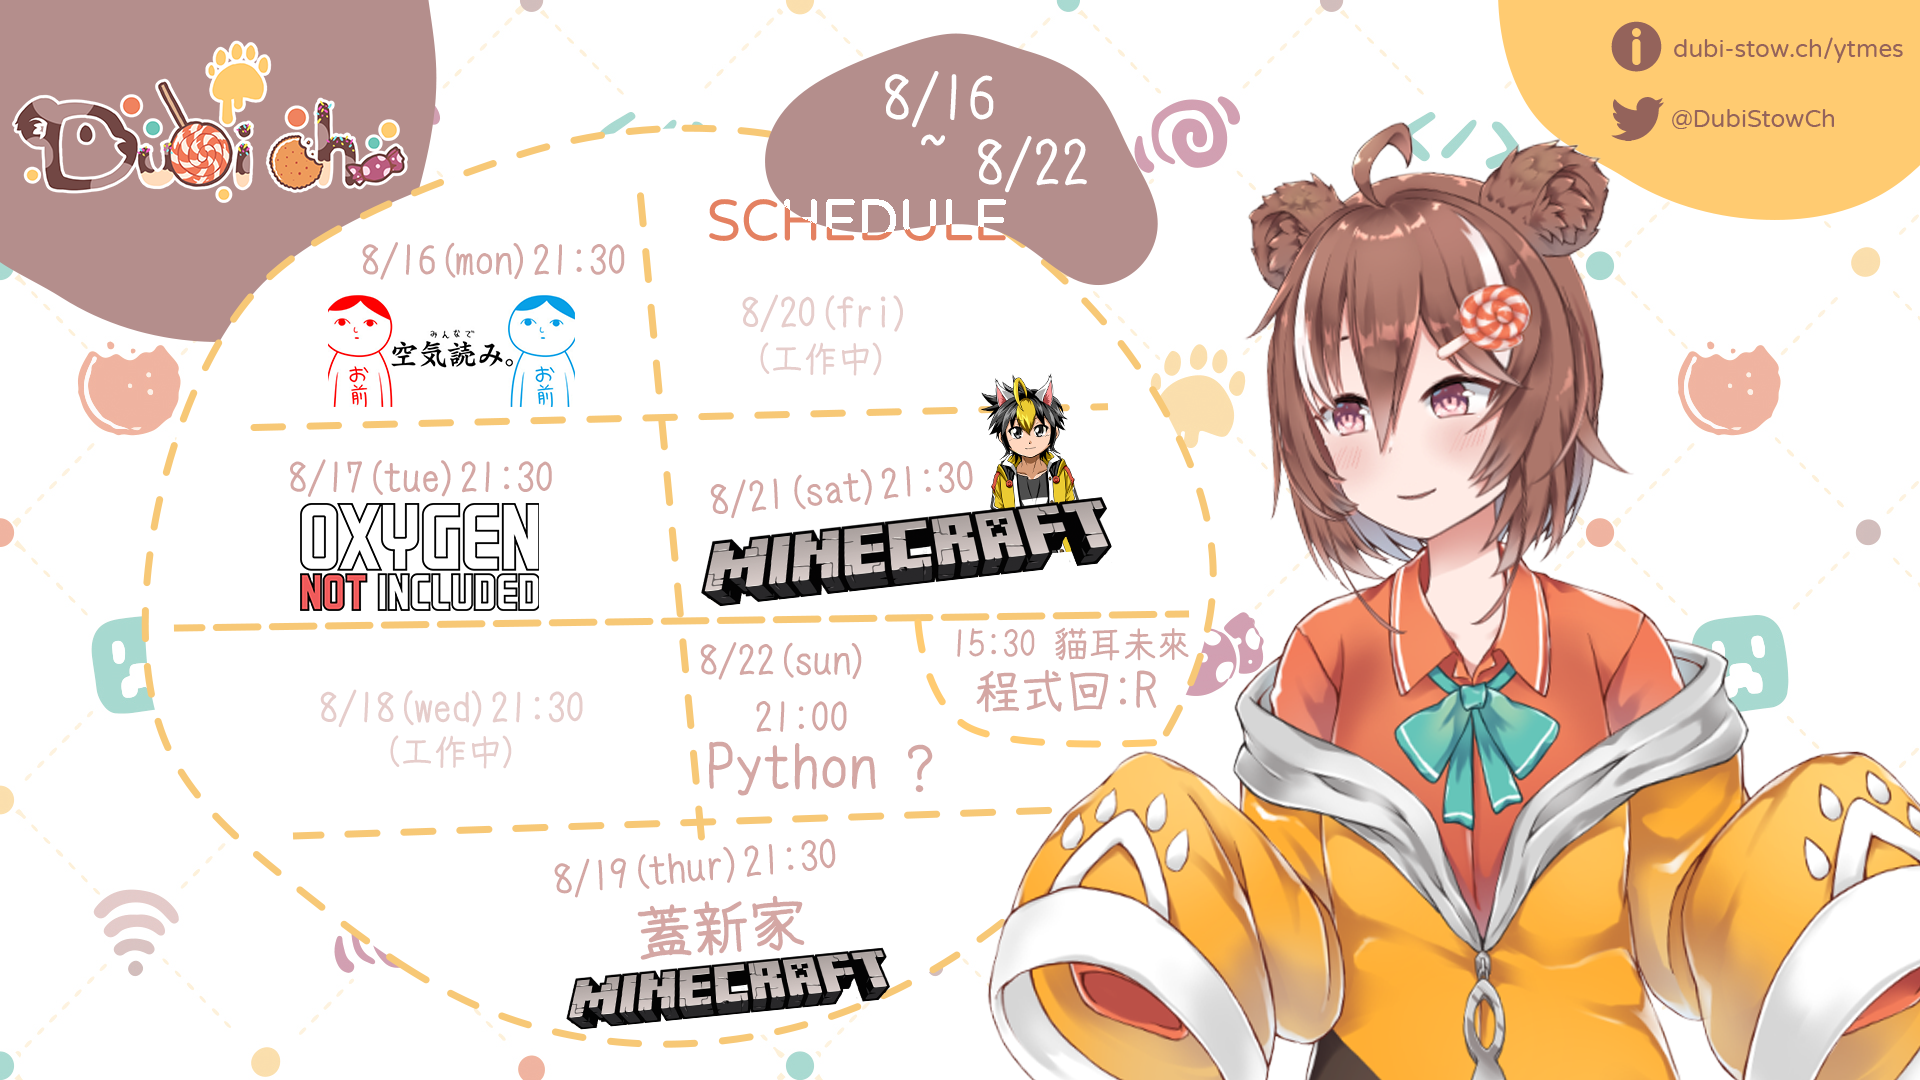
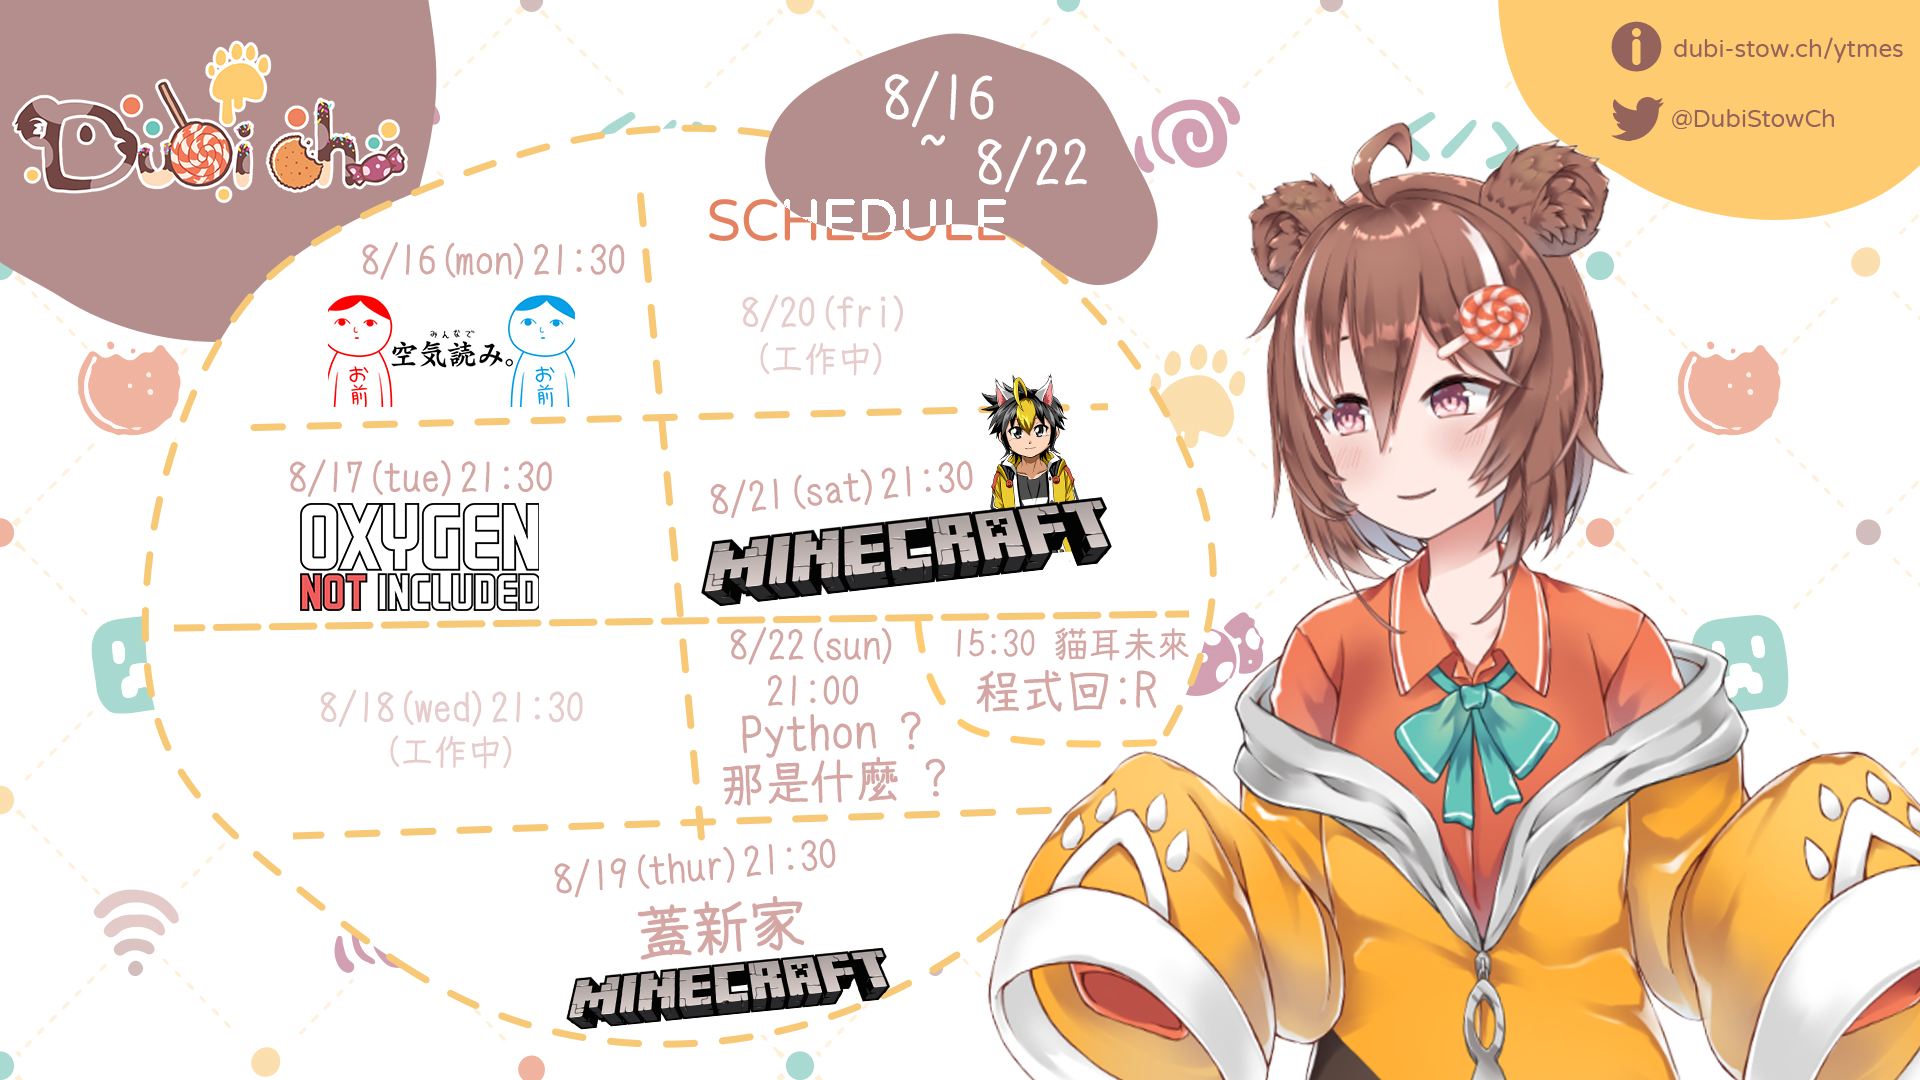
update: edit schedules (html)

Changed region(s): [[0.375, 0.5806, 0.5, 0.7639]]

diff --git a/schedules/index.html b/schedules/index.html
@@ -3,20 +3,20 @@
     <!-- Primary Meta Tags -->
     <title>Dubi Stow 本週行程 (08/16 ~ 08/22)</title>
     <meta name="title" content="Dubi Stow 本週行程 (08/16 ~ 08/22)">
-    <meta name="description" content="一:閱讀空氣/二:缺氧/四:Minecraft/六:Minecraft(feat.貓耳)/日:R(host.貓耳)/Python?">
+    <meta name="description" content="一:閱讀空氣/二:缺氧/四:Minecraft/六:Minecraft(feat.貓耳)/日:R(host.貓耳)/Python ? 那是什麼 ?">
 
     <!-- Open Graph / Facebook -->
     <meta property="og:type" content="website">
     <meta property="og:url" content="https://me.dubi-stow.ch/schedules/">
     <meta property="og:title" content="Dubi Stow 本週行程 (08/16 ~ 08/22)">
-    <meta property="og:description" content="一:閱讀空氣/二:缺氧/四:Minecraft/六:Minecraft(feat.貓耳)/日:R(host.貓耳)/Python?">
+    <meta property="og:description" content="一:閱讀空氣/二:缺氧/四:Minecraft/六:Minecraft(feat.貓耳)/日:R(host.貓耳)/Python ? 那是什麼 ?">
     <meta property="og:image" content="https://me.dubi-stow.ch/images/schedules/0816.png?update_time=1629109796016">
 
     <!-- Twitter -->
     <meta property="twitter:card" content="summary_large_image">
     <meta property="twitter:url" content="https://me.dubi-stow.ch/schedules/">
     <meta property="twitter:title" content="Dubi Stow 本週行程 (08/16 ~ 08/22)">
-    <meta property="twitter:description" content="一:閱讀空氣/二:缺氧/四:Minecraft/六:Minecraft(feat.貓耳)/日:R(host.貓耳)/Python?">
+    <meta property="twitter:description" content="一:閱讀空氣/二:缺氧/四:Minecraft/六:Minecraft(feat.貓耳)/日:R(host.貓耳)/Python ? 那是什麼 ?">
     <meta property="twitter:image" content="https://me.dubi-stow.ch/images/schedules/0816.png?update_time=1629109796016">
     <style>
         html, body {
